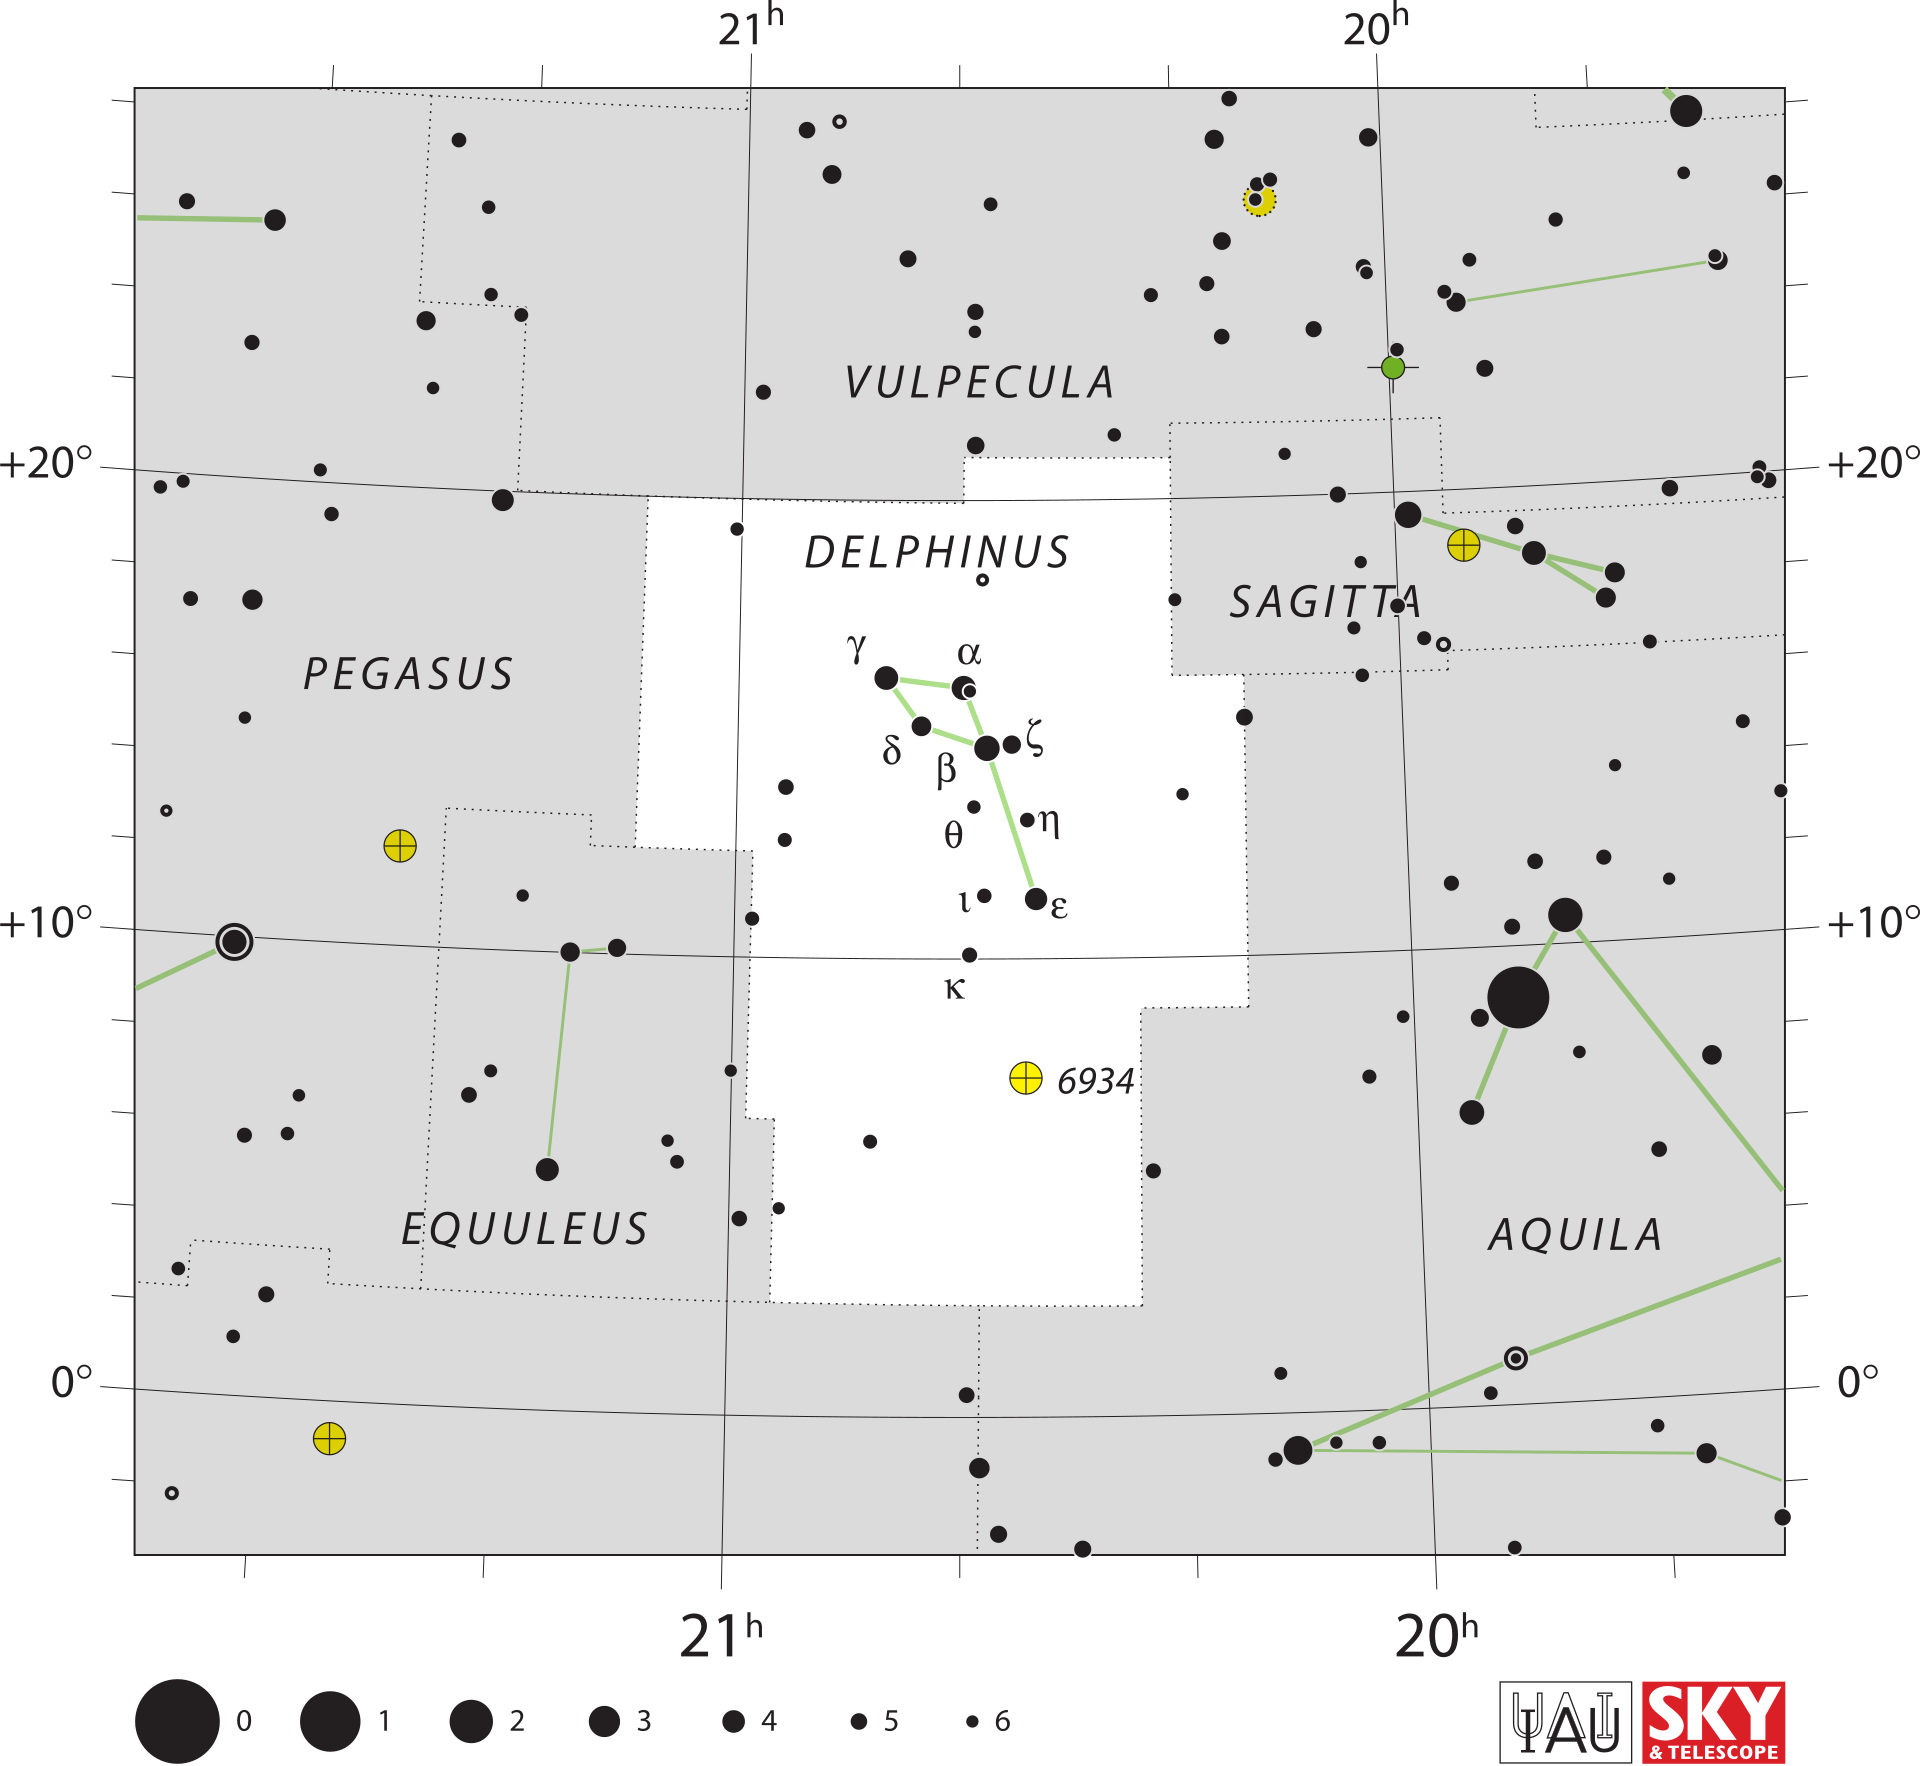
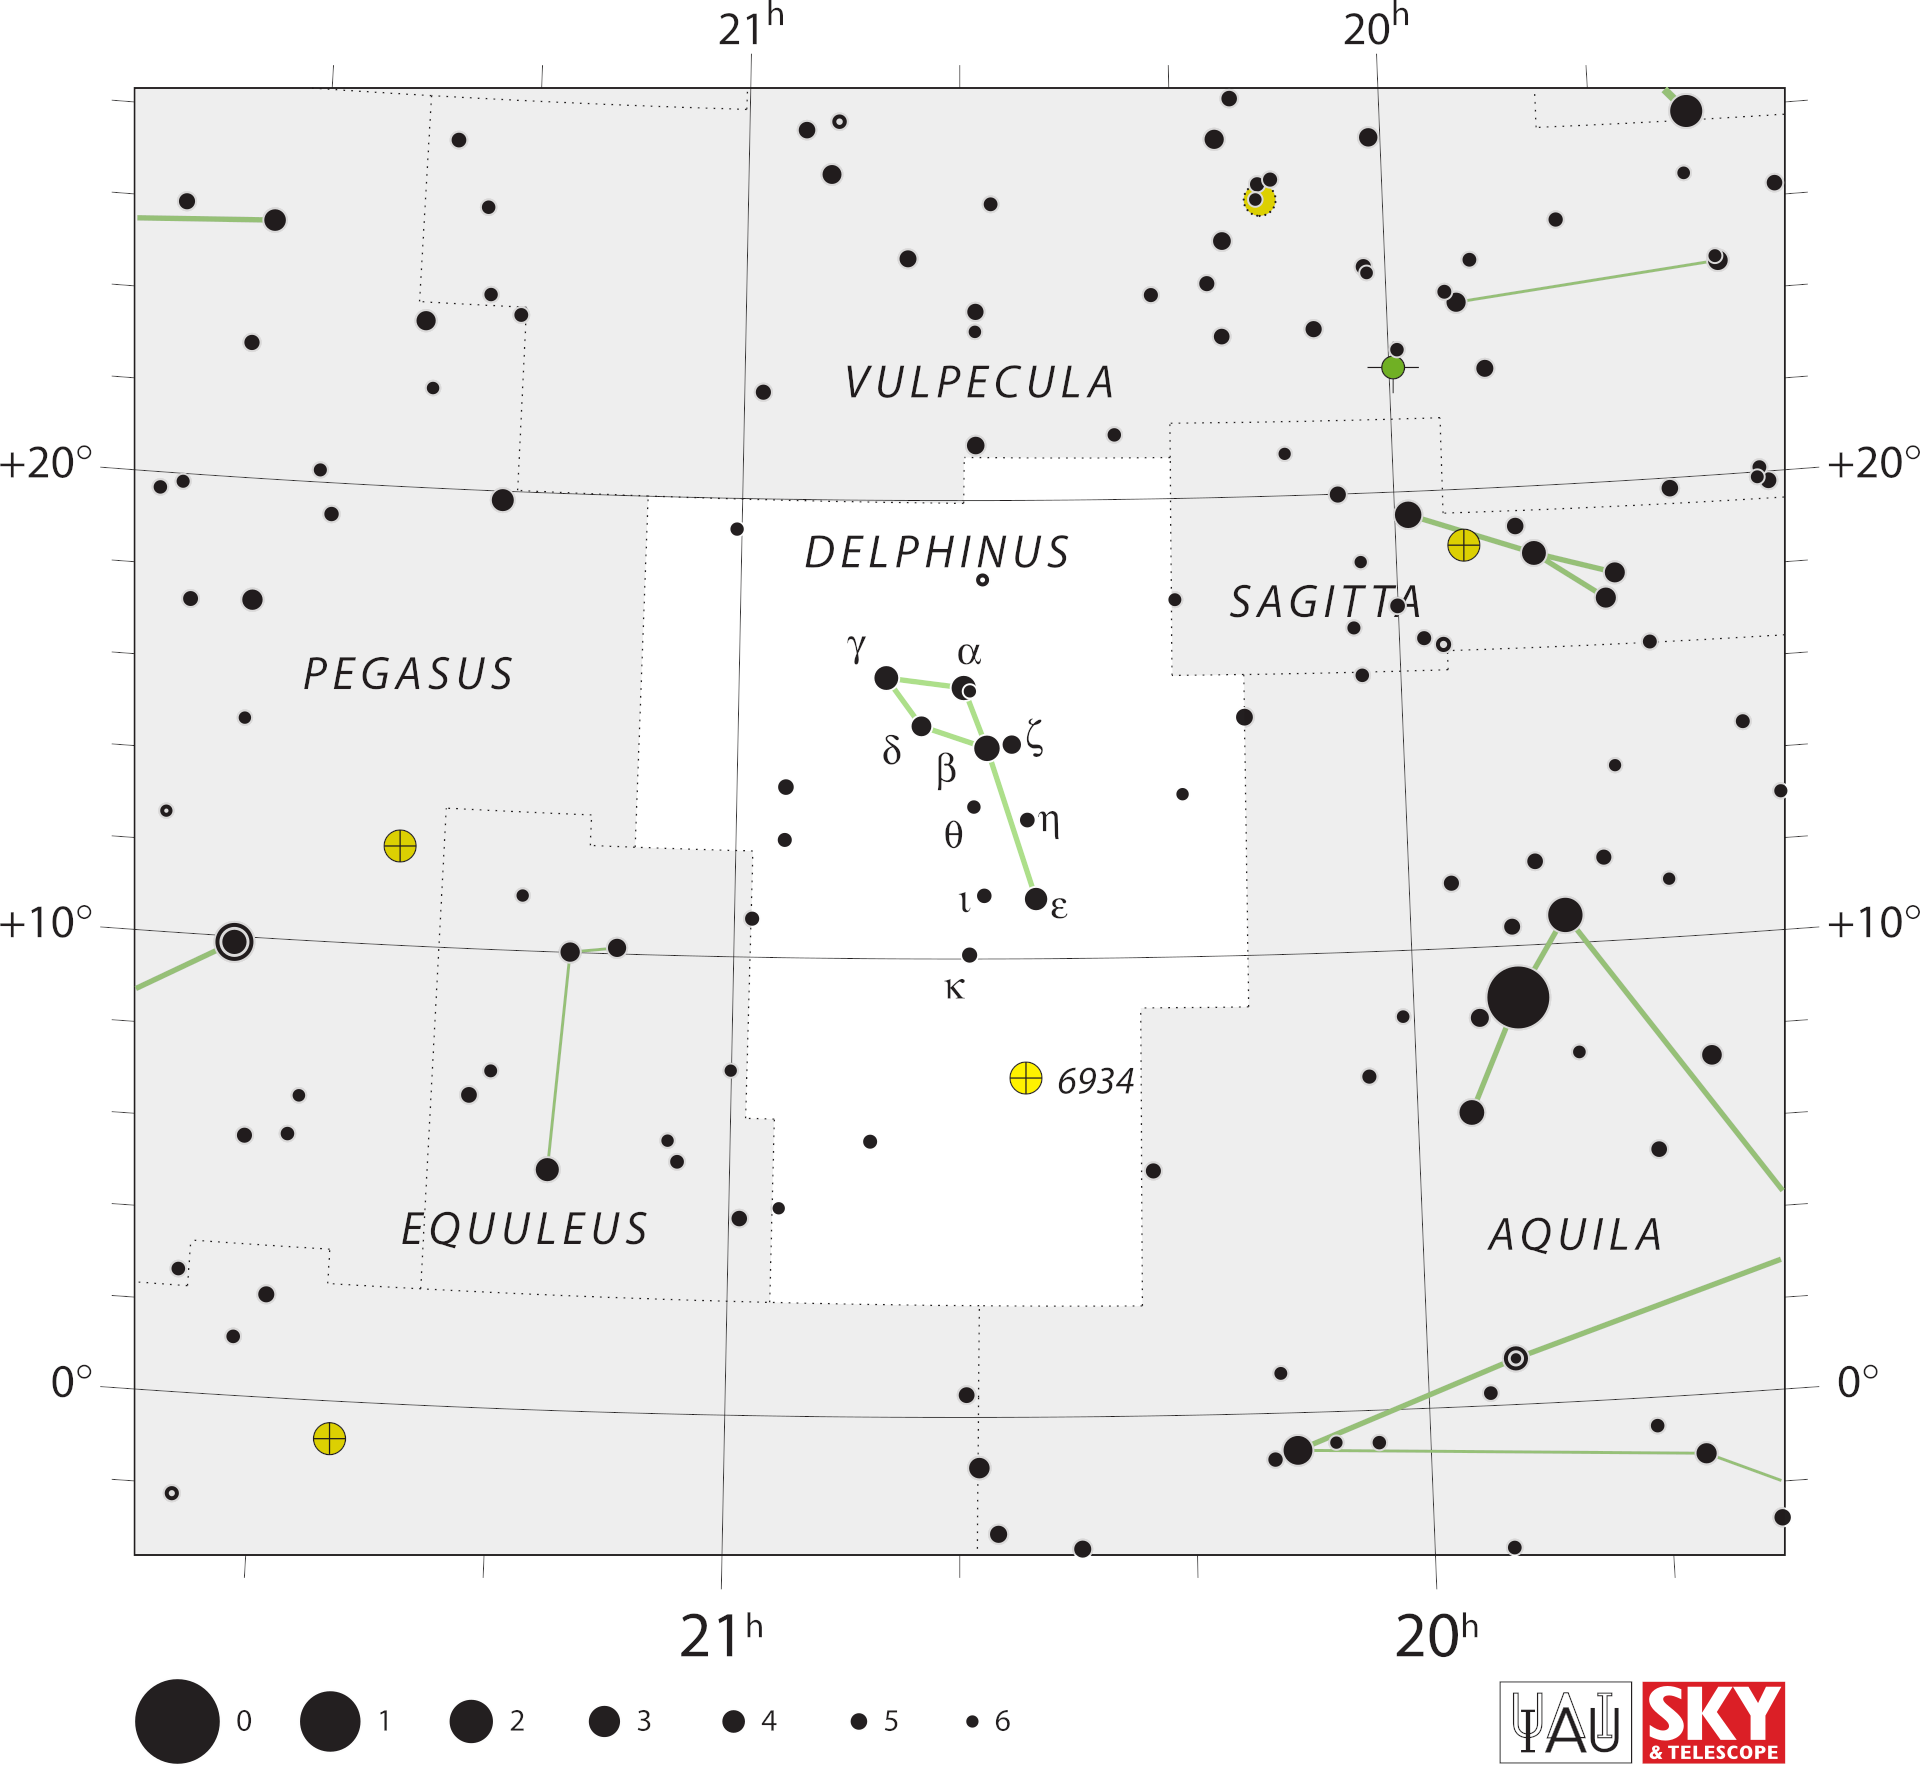
fix pyqt6 bug after migration from qtpy5

Changed region(s): [[0.7812, 0.9655, 0.9375, 1.0]]

diff --git a/gui/tabs.py b/gui/tabs.py
@@ -64,7 +64,7 @@ class GroupListWidget(QListWidget):
 
     def contextMenuEvent(self, event):
         """右键点击列表项时发出信号; 点击空白处忽略。"""
-        if self.itemAt(event.pos()) is not None:
+        if self.itemAt(event.position().toPoint()) is not None:
             self.right_clicked.emit(event.globalPos())
             event.accept()
         else:
@@ -88,7 +88,7 @@ class GroupListWidget(QListWidget):
 
     def dragMoveEvent(self, event):
         if event.mimeData().hasFormat(MIME_PATHS):
-            self._set_hover(self.itemAt(event.pos()))  # 经过时高亮
+            self._set_hover(self.itemAt(event.position().toPoint()))  # 经过时高亮
             event.setDropAction(Qt.DropAction.MoveAction)
             event.accept()
         else:
@@ -99,7 +99,7 @@ class GroupListWidget(QListWidget):
         super().dragLeaveEvent(event)
 
     def dropEvent(self, event):
-        item = self.itemAt(event.pos())
+        item = self.itemAt(event.position().toPoint())
         self._set_hover(None)
         if not event.mimeData().hasFormat(MIME_PATHS):
             event.ignore()
@@ -1304,7 +1304,7 @@ class StatisticsTab(QWidget):
 class ClassStepRunner(QThread):
     """在后台线程中执行一个可调用对象，并把 stdout/stderr 重定向到 GUI 日志。
 
-    取代原先的 QProcess + runpy 方案；开发模式与 PyInstaller 打包后均走同进程
+    开发模式与 PyInstaller 打包后均走同进程
     线程，直接实例化 Step*.py 中的类并调用入口方法。
     """
 
@@ -1372,10 +1372,6 @@ class DashboardTab(QWidget):
     所有步骤在后台 QThread 中执行, 运行期间按钮禁用, 结束后恢复并提示。"""
 
     root_changed = pyqtSignal(str)
-    scan_finished = pyqtSignal()
-    locate_finished = pyqtSignal()
-    filter_finished = pyqtSignal()
-    cluster_finished = pyqtSignal()
 
     STEPS = [
         # (按钮文字, 步骤可调用对象, 是否需要先弹出保存对话框)
@@ -1492,12 +1488,12 @@ class DashboardTab(QWidget):
         """Extract Fin Features 按钮右侧: 显示 FIN_DEEPFEATURES 是否存在。"""
         if not self._root or not hasattr(self, "_feature_status"):
             return
-        feat = os.path.join(self._root, "METAINFO", "FIN_DEEPFEATURES")
+        feat = os.path.join(self._root, "METAINFO", "FIN_DEEPFEATURES.npy")
         if not os.path.exists(feat):
             self._feature_status.setText("Wait to Extract")
             self._feature_status.setStyleSheet("color: #d9534f;")
             return
-        self._feature_status.setText("METAINFO/FIN_DEEPFEATURES found")
+        self._feature_status.setText("METAINFO/FIN_DEEPFEATURES.npy found")
         self._feature_status.setStyleSheet("color: #5cb85c;")
 
     def _run_step(self, step_callable, btn):
@@ -1568,18 +1564,12 @@ class DashboardTab(QWidget):
 
     def _step_finished(self, btn, exit_code):
         btn.setEnabled(True)
-        if "Scan Images" in btn.text():
+        if "Scan Photos" in btn.text():
             self._update_scan_status()
-            self.scan_finished.emit()
         if "Locate Fin" in btn.text():
             self._update_fin_status()
-            self.locate_finished.emit()
         if "Extract Fin Features" in btn.text():
             self._update_feature_status()
-        if "Select good quality fin" in btn.text() and exit_code == 0:
-            self.filter_finished.emit()
-        if "Clustering" in btn.text() and exit_code == 0:
-            self.cluster_finished.emit()
         self._append_log("%s 已结束 (exit code %d)" % (btn.text(), exit_code),
                          color="#5bc0de" if exit_code == 0 else "#ff6b6b")
         QMessageBox.information(self, "Doris", "%s 已结束 (exit code %d)"

diff --git a/gui/dolphin.py b/gui/dolphin.py
@@ -125,7 +125,7 @@ class DolphinTab(QListWidget):
         self._press_top = False
         self._press_bottom = False
         if event.button() == Qt.MouseButton.LeftButton:
-            item = self.itemAt(event.pos())
+            item = self.itemAt(event.position().toPoint())
             if item is not None:
                 r = self.visualItemRect(item)
                 self._press_bottom = event.pos().y() > r.top() + r.height() // 2
@@ -134,7 +134,7 @@ class DolphinTab(QListWidget):
 
     def mouseDoubleClickEvent(self, event):
         """双击鳍图打开大图查看窗口: 上半格看 DL, 下半格看 DR。"""
-        item = self.itemAt(event.pos())
+        item = self.itemAt(event.position().toPoint())
         if item is not None:
             r = self.visualItemRect(item)
             bottom = event.pos().y() > r.top() + r.height() // 2
@@ -203,7 +203,7 @@ class DolphinTab(QListWidget):
             if not src:
                 event.ignore()
                 return
-            item = self.itemAt(event.pos())
+            item = self.itemAt(event.position().toPoint())
             if item is None:
                 self._move_dolphin_to_end(src)
             else:
@@ -223,7 +223,7 @@ class DolphinTab(QListWidget):
         if not src:
             event.ignore()
             return
-        item = self.itemAt(event.pos())
+        item = self.itemAt(event.position().toPoint())
         if item is None:
             # 拖到空白处: 用该海豚的 DR 鳍创建一只新海豚
             self.dr_dropped_on_empty.emit(src)
@@ -380,7 +380,7 @@ class FinSlot(QLabel):
 
     def wheelEvent(self, event):
         self._zoom_to(1.25 if event.angleDelta().y() > 0 else 0.8,
-                      event.pos())
+                      event.position().toPoint())
 
     def mousePressEvent(self, event):
         if event.button() == Qt.MouseButton.LeftButton and self.fid is not None:
@@ -543,7 +543,7 @@ class CandidateList(QListWidget):
 
     # -- 双击打开大图查看窗口 --------------------------------------------------
     def mouseDoubleClickEvent(self, event):
-        item = self.itemAt(event.pos())
+        item = self.itemAt(event.position().toPoint())
         if item is not None:
             p = item.data(Qt.ItemDataRole.UserRole + 1)
             if p:

diff --git a/gui/main_window.py b/gui/main_window.py
@@ -81,6 +81,7 @@ class MainWindow(QMainWindow):
 
     def load(self, root):
         self.root = root
+        self.setWindowTitle("Doris v0.2.2 — %s" % root)
         meta_dir = os.path.join(root, "METAINFO")
         self._required_files = {
             "PHOTO_METAINFO.csv": os.path.join(meta_dir, "PHOTO_METAINFO.csv"),
@@ -96,10 +97,6 @@ class MainWindow(QMainWindow):
         # 0. Dashboard 页: 处理流程入口 (参考 dashboard.ui); 选择根目录后重载
         self._dashboard = DashboardTab()
         self._dashboard.root_changed.connect(self.load)
-        self._dashboard.scan_finished.connect(lambda: self.load(self.root))
-        self._dashboard.locate_finished.connect(lambda: self.load(self.root))
-        self._dashboard.filter_finished.connect(lambda: self.load(self.root))
-        self._dashboard.cluster_finished.connect(lambda: self.load(self.root))
         self._dashboard.set_root(root)
         self.tabs.addTab(self._dashboard, "Dashboard")
 

diff --git a/gui/common.py b/gui/common.py
@@ -471,7 +471,7 @@ class ImageGrid(QListWidget):
         paths = [p for p in paths if p]
         if paths:
             self.paths_dropped.emit(paths)
-            item = self.itemAt(event.pos())
+            item = self.itemAt(event.position().toPoint())
             if item is not None:
                 self.paths_dropped_on.emit(paths, item.data(Qt.ItemDataRole.UserRole))
             event.setDropAction(Qt.DropAction.MoveAction)
@@ -486,7 +486,7 @@ class ImageGrid(QListWidget):
 
     def mousePressEvent(self, event):
         if event.button() == Qt.MouseButton.MiddleButton:
-            item = self.itemAt(event.pos())
+            item = self.itemAt(event.position().toPoint())
             if item is not None:
                 self.middle_clicked.emit(item.data(Qt.ItemDataRole.UserRole))
                 event.accept()
